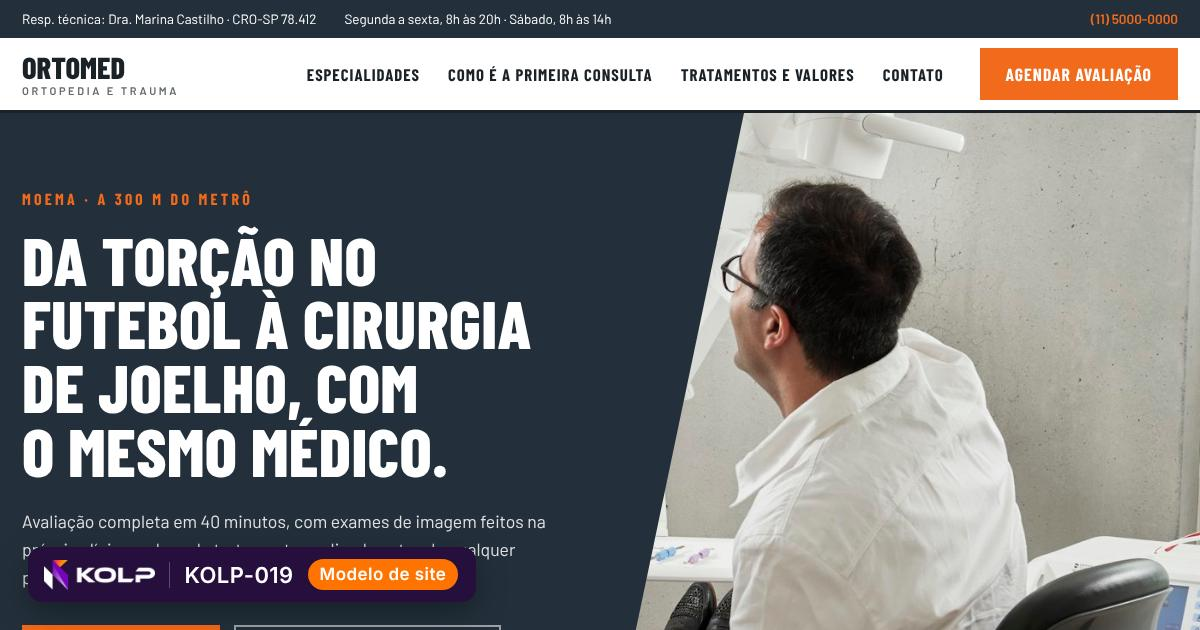
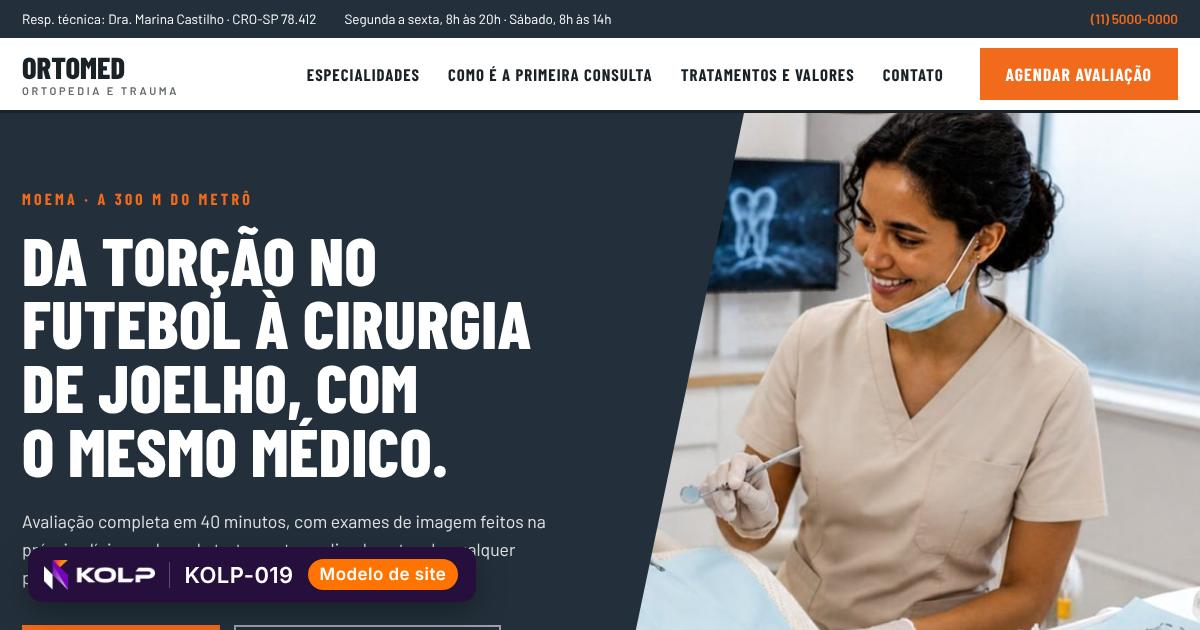
Bring saude to 10 photos
Claude-Session: https://claude.ai/code/session_0151Yi9K8yWSyYvoKWm1KgPz

diff --git a/kolp-modelos/demo/saude-08/index.html b/kolp-modelos/demo/saude-08/index.html
@@ -34,17 +34,17 @@
     <p class="lide">Você sai da primeira consulta com o diagnóstico, as opções de tratamento, os prazos e os valores por escrito.</p>
     <div class="acoes"><a class="botao" href="#contato">Agendar avaliação</a><a class="elo" href="#servicos">Ver tratamentos e valores</a></div>
     <div class="mosaico">
-      <img class="m1" src="../../fotos/saude/2.jpg" alt="" width="1400" height="930">
-      <img class="m2" src="../../fotos/saude/1.jpg" alt="" width="1400" height="930">
-      <img class="m3" src="../../fotos/saude/3.jpg" alt="" width="1400" height="930">
+      <img class="m1" src="../../fotos/saude/9.jpg" alt="" width="1400" height="930">
+      <img class="m2" src="../../fotos/saude/8.jpg" alt="" width="1400" height="930">
+      <img class="m3" src="../../fotos/saude/10.jpg" alt="" width="1400" height="930">
       <p class="selo"><b>16</b>anos cuidando do bairro</p>
     </div>
   </div></section>
   <section class="pontos"><ul class="largura"><li class="rev">Atendimento de segunda a sábado, até as 20h</li><li class="rev">Parcelamento em até 12 vezes sem juros</li><li class="rev">Encaixe no mesmo dia para urgências</li></ul></section>
   <section class="servicos" id="servicos"><div class="largura">
     <header class="topo rev"><h2>Especialidades</h2><p>Todas no mesmo endereço, com prontuário único. Você não repete sua história a cada profissional.</p></header>
-    <div class="par rev"><img src="../../fotos/saude/4.jpg" alt="" width="1400" height="930" loading="lazy"><ul><li><h3>Clínica geral</h3><p>Consulta de rotina, check-up anual, controle de pressão, diabetes e colesterol.</p></li><li><h3>Odontologia</h3><p>Limpeza, restaurações, canal, aparelho, implantes e clareamento.</p></li><li><h3>Dermatologia</h3><p>Acne, manchas, queda de cabelo, mapeamento de pintas e pequenos procedimentos.</p></li></ul></div>
-    <div class="par par-inv rev"><img src="../../fotos/saude/5.jpg" alt="" width="1400" height="930" loading="lazy"><ul><li><h3>Ortopedia</h3><p>Dores na coluna, joelho e ombro, lesões esportivas e acompanhamento pós-cirúrgico.</p></li><li><h3>Fisioterapia</h3><p>Reabilitação, pilates clínico, RPG e drenagem, com avaliação postural.</p></li><li><h3>Exames de imagem</h3><p>Radiografia digital, ultrassom e eletrocardiograma, com laudo no mesmo dia.</p></li></ul></div>
+    <div class="par rev"><img src="../../fotos/saude/1.jpg" alt="" width="1400" height="930" loading="lazy"><ul><li><h3>Clínica geral</h3><p>Consulta de rotina, check-up anual, controle de pressão, diabetes e colesterol.</p></li><li><h3>Odontologia</h3><p>Limpeza, restaurações, canal, aparelho, implantes e clareamento.</p></li><li><h3>Dermatologia</h3><p>Acne, manchas, queda de cabelo, mapeamento de pintas e pequenos procedimentos.</p></li></ul></div>
+    <div class="par par-inv rev"><img src="../../fotos/saude/2.jpg" alt="" width="1400" height="930" loading="lazy"><ul><li><h3>Ortopedia</h3><p>Dores na coluna, joelho e ombro, lesões esportivas e acompanhamento pós-cirúrgico.</p></li><li><h3>Fisioterapia</h3><p>Reabilitação, pilates clínico, RPG e drenagem, com avaliação postural.</p></li><li><h3>Exames de imagem</h3><p>Radiografia digital, ultrassom e eletrocardiograma, com laudo no mesmo dia.</p></li></ul></div>
   </div></section>
   <section class="precos" id="precos"><div class="largura">
     <header class="topo rev"><h2>Tratamentos e valores</h2><p>Valores de referência para atendimento particular. Convênios aceitos: Amil, Bradesco, SulAmérica e Unimed.</p></header>

diff --git a/kolp-modelos/demo/saude-07/index.html b/kolp-modelos/demo/saude-07/index.html
@@ -43,7 +43,7 @@
     <header class="topo rev"><h2>Especialidades</h2><p>Todas no mesmo endereço, com prontuário único. Você não repete sua história a cada profissional.</p></header>
     <ol class="cartoes"><li class="rev"><h3>Clínica geral</h3><p>Consulta de rotina, check-up anual, controle de pressão, diabetes e colesterol.</p></li><li class="rev"><h3>Odontologia</h3><p>Limpeza, restaurações, canal, aparelho, implantes e clareamento.</p></li><li class="rev"><h3>Dermatologia</h3><p>Acne, manchas, queda de cabelo, mapeamento de pintas e pequenos procedimentos.</p></li><li class="rev"><h3>Ortopedia</h3><p>Dores na coluna, joelho e ombro, lesões esportivas e acompanhamento pós-cirúrgico.</p></li><li class="rev"><h3>Fisioterapia</h3><p>Reabilitação, pilates clínico, RPG e drenagem, com avaliação postural.</p></li><li class="rev"><h3>Exames de imagem</h3><p>Radiografia digital, ultrassom e eletrocardiograma, com laudo no mesmo dia.</p></li></ol>
   </div></section>
-  <section class="faixa rev"><img src="../../fotos/saude/1.jpg" alt="" width="1400" height="930" loading="lazy"><p>“Ninguém deveria adiar um tratamento por medo ou por falta de explicação.”</p></section>
+  <section class="faixa rev"><img src="../../fotos/saude/8.jpg" alt="" width="1400" height="930" loading="lazy"><p>“Ninguém deveria adiar um tratamento por medo ou por falta de explicação.”</p></section>
   <section class="precos" id="precos"><div class="largura precos-grade">
     <div class="precos-lado rev"><h2>Tratamentos e valores</h2><p>Valores de referência para atendimento particular. Convênios aceitos: Amil, Bradesco, SulAmérica e Unimed.</p><a class="botao" href="#contato">Agendar avaliação</a></div>
     <div class="rev"><details open><summary>Consultas</summary><ul><li><div><b>Consulta com clínico geral</b><span>Com retorno em até 15 dias</span></div><strong>R$ 180</strong></li><li><div><b>Consulta com especialista</b><span>Dermato, ortopedia ou cardiologia</span></div><strong>R$ 260</strong></li><li><div><b>Avaliação odontológica</b><span>Inclui radiografia panorâmica</span></div><strong>R$ 150</strong></li><li><div><b>Teleconsulta</b><span>Retornos e resultados de exames</span></div><strong>R$ 120</strong></li></ul></details><details><summary>Procedimentos</summary><ul><li><div><b>Limpeza dental completa</b><span>Profilaxia e aplicação de flúor</span></div><strong>R$ 220</strong></li><li><div><b>Clareamento dental</b><span>Consultório e moldeira caseira</span></div><strong>R$ 690</strong></li><li><div><b>Sessão de fisioterapia</b><span>50 minutos, individual</span></div><strong>R$ 130</strong></li></ul></details><details><summary>Exames</summary><ul><li><div><b>Check-up essencial</b><span>Consulta, sangue e eletrocardiograma</span></div><strong>R$ 480</strong></li><li><div><b>Ultrassom</b><span>Abdome, tireoide ou articulações</span></div><strong>R$ 210</strong></li><li><div><b>Radiografia digital</b><span>Laudo em até 2 horas</span></div><strong>R$ 95</strong></li></ul></details></div>

diff --git a/kolp-modelos/demo/saude-10/index.html b/kolp-modelos/demo/saude-10/index.html
@@ -30,7 +30,7 @@
 <div class="conteudo">
 <main>
   <section class="abertura">
-    <img src="../../fotos/saude/3.jpg" alt="" width="1400" height="930">
+    <img src="../../fotos/saude/10.jpg" alt="" width="1400" height="930">
     <div class="legenda"><p class="rotulo">Desde 2008 · Moema · a 300 m do metrô</p><h1>A clínica onde o médico lembra o seu nome e o seu histórico.</h1></div>
   </section>
   <section class="sobre" id="sobre">
@@ -41,7 +41,7 @@
     <header class="topo"><h2>Especialidades</h2><p>Todas no mesmo endereço, com prontuário único. Você não repete sua história a cada profissional.</p></header>
     <ul class="servicos"><li><h3>Clínica geral</h3><p>Consulta de rotina, check-up anual, controle de pressão, diabetes e colesterol.</p></li><li><h3>Odontologia</h3><p>Limpeza, restaurações, canal, aparelho, implantes e clareamento.</p></li><li><h3>Dermatologia</h3><p>Acne, manchas, queda de cabelo, mapeamento de pintas e pequenos procedimentos.</p></li><li><h3>Ortopedia</h3><p>Dores na coluna, joelho e ombro, lesões esportivas e acompanhamento pós-cirúrgico.</p></li><li><h3>Fisioterapia</h3><p>Reabilitação, pilates clínico, RPG e drenagem, com avaliação postural.</p></li><li><h3>Exames de imagem</h3><p>Radiografia digital, ultrassom e eletrocardiograma, com laudo no mesmo dia.</p></li></ul>
   </section>
-  <figure class="citacao"><img src="../../fotos/saude/4.jpg" alt="" width="1400" height="930" loading="lazy"><blockquote>“Ninguém deveria adiar um tratamento por medo ou por falta de explicação.”</blockquote></figure>
+  <figure class="citacao"><img src="../../fotos/saude/1.jpg" alt="" width="1400" height="930" loading="lazy"><blockquote>“Ninguém deveria adiar um tratamento por medo ou por falta de explicação.”</blockquote></figure>
   <section id="equipe">
     <header class="topo"><h2>Quem cuida de você</h2><p>Profissionais com especialização registrada no conselho. A direção clínica é das fundadoras.</p></header>
     <div class="equipe"><article><img src="../../fotos/retratos/f2.jpg" alt="Retrato de Dra. Marina Castilho" width="560" height="680" loading="lazy"><div><h3>Dra. Marina Castilho</h3><p class="cargo">Diretora clínica · CRO-SP 78.412</p><p>Especialista pela USP, com quinze anos dedicados à reabilitação oral.</p></div></article><article><img src="../../fotos/retratos/m2.jpg" alt="Retrato de Dr. André Vilela" width="560" height="680" loading="lazy"><div><h3>Dr. André Vilela</h3><p class="cargo">Clínico geral · CRM-SP 132.550</p><p>Residência em Medicina de Família pela Unifesp. Atende adultos e idosos.</p></div></article><article><img src="../../fotos/retratos/f3.jpg" alt="Retrato de Dra. Beatriz Nogueira" width="560" height="680" loading="lazy"><div><h3>Dra. Beatriz Nogueira</h3><p class="cargo">Dermatologia · CRM-SP 148.206</p><p>Título de especialista pela Sociedade Brasileira de Dermatologia.</p></div></article></div>

diff --git a/kolp-modelos/demo/saude-09/index.html b/kolp-modelos/demo/saude-09/index.html
@@ -30,7 +30,7 @@
 </div></header>
 <main>
   <section class="abertura">
-    <img src="../../fotos/saude/2.jpg" alt="" width="1400" height="930">
+    <img src="../../fotos/saude/9.jpg" alt="" width="1400" height="930">
     <div class="abertura-bloco"><div>
       <p class="rotulo">Moema · a 300 m do metrô</p>
       <h1>Da torção no futebol à cirurgia de joelho, com o mesmo médico.</h1>
@@ -51,7 +51,7 @@
     <header class="topo"><h2>Tratamentos e valores</h2><p>Valores de referência para atendimento particular. Convênios aceitos: Amil, Bradesco, SulAmérica e Unimed.</p></header>
     <div class="tabela-rolagem"><table><tbody><tr class="grupo"><th colspan="3">Consultas</th></tr><tr><th>Consulta com clínico geral</th><td>Com retorno em até 15 dias</td><td>R$ 180</td></tr><tr><th>Consulta com especialista</th><td>Dermato, ortopedia ou cardiologia</td><td>R$ 260</td></tr><tr><th>Avaliação odontológica</th><td>Inclui radiografia panorâmica</td><td>R$ 150</td></tr><tr><th>Teleconsulta</th><td>Retornos e resultados de exames</td><td>R$ 120</td></tr></tbody><tbody><tr class="grupo"><th colspan="3">Procedimentos</th></tr><tr><th>Limpeza dental completa</th><td>Profilaxia e aplicação de flúor</td><td>R$ 220</td></tr><tr><th>Clareamento dental</th><td>Consultório e moldeira caseira</td><td>R$ 690</td></tr><tr><th>Sessão de fisioterapia</th><td>50 minutos, individual</td><td>R$ 130</td></tr></tbody><tbody><tr class="grupo"><th colspan="3">Exames</th></tr><tr><th>Check-up essencial</th><td>Consulta, sangue e eletrocardiograma</td><td>R$ 480</td></tr><tr><th>Ultrassom</th><td>Abdome, tireoide ou articulações</td><td>R$ 210</td></tr><tr><th>Radiografia digital</th><td>Laudo em até 2 horas</td><td>R$ 95</td></tr></tbody></table></div>
   </div></section>
-  <section class="prova"><img src="../../fotos/saude/3.jpg" alt="" width="1400" height="930" loading="lazy">
+  <section class="prova"><img src="../../fotos/saude/10.jpg" alt="" width="1400" height="930" loading="lazy">
     <blockquote><p>“Fugi de dentista por dez anos. Aqui me explicaram cada etapa, mostraram a radiografia na tela e respeitaram o meu tempo. Terminei o tratamento sem faltar a uma consulta.”</p><footer><b>Renata Queiroz</b> paciente desde 2019</footer></blockquote>
   </section>
   <section class="contato" id="contato"><div class="largura contato-grade">
